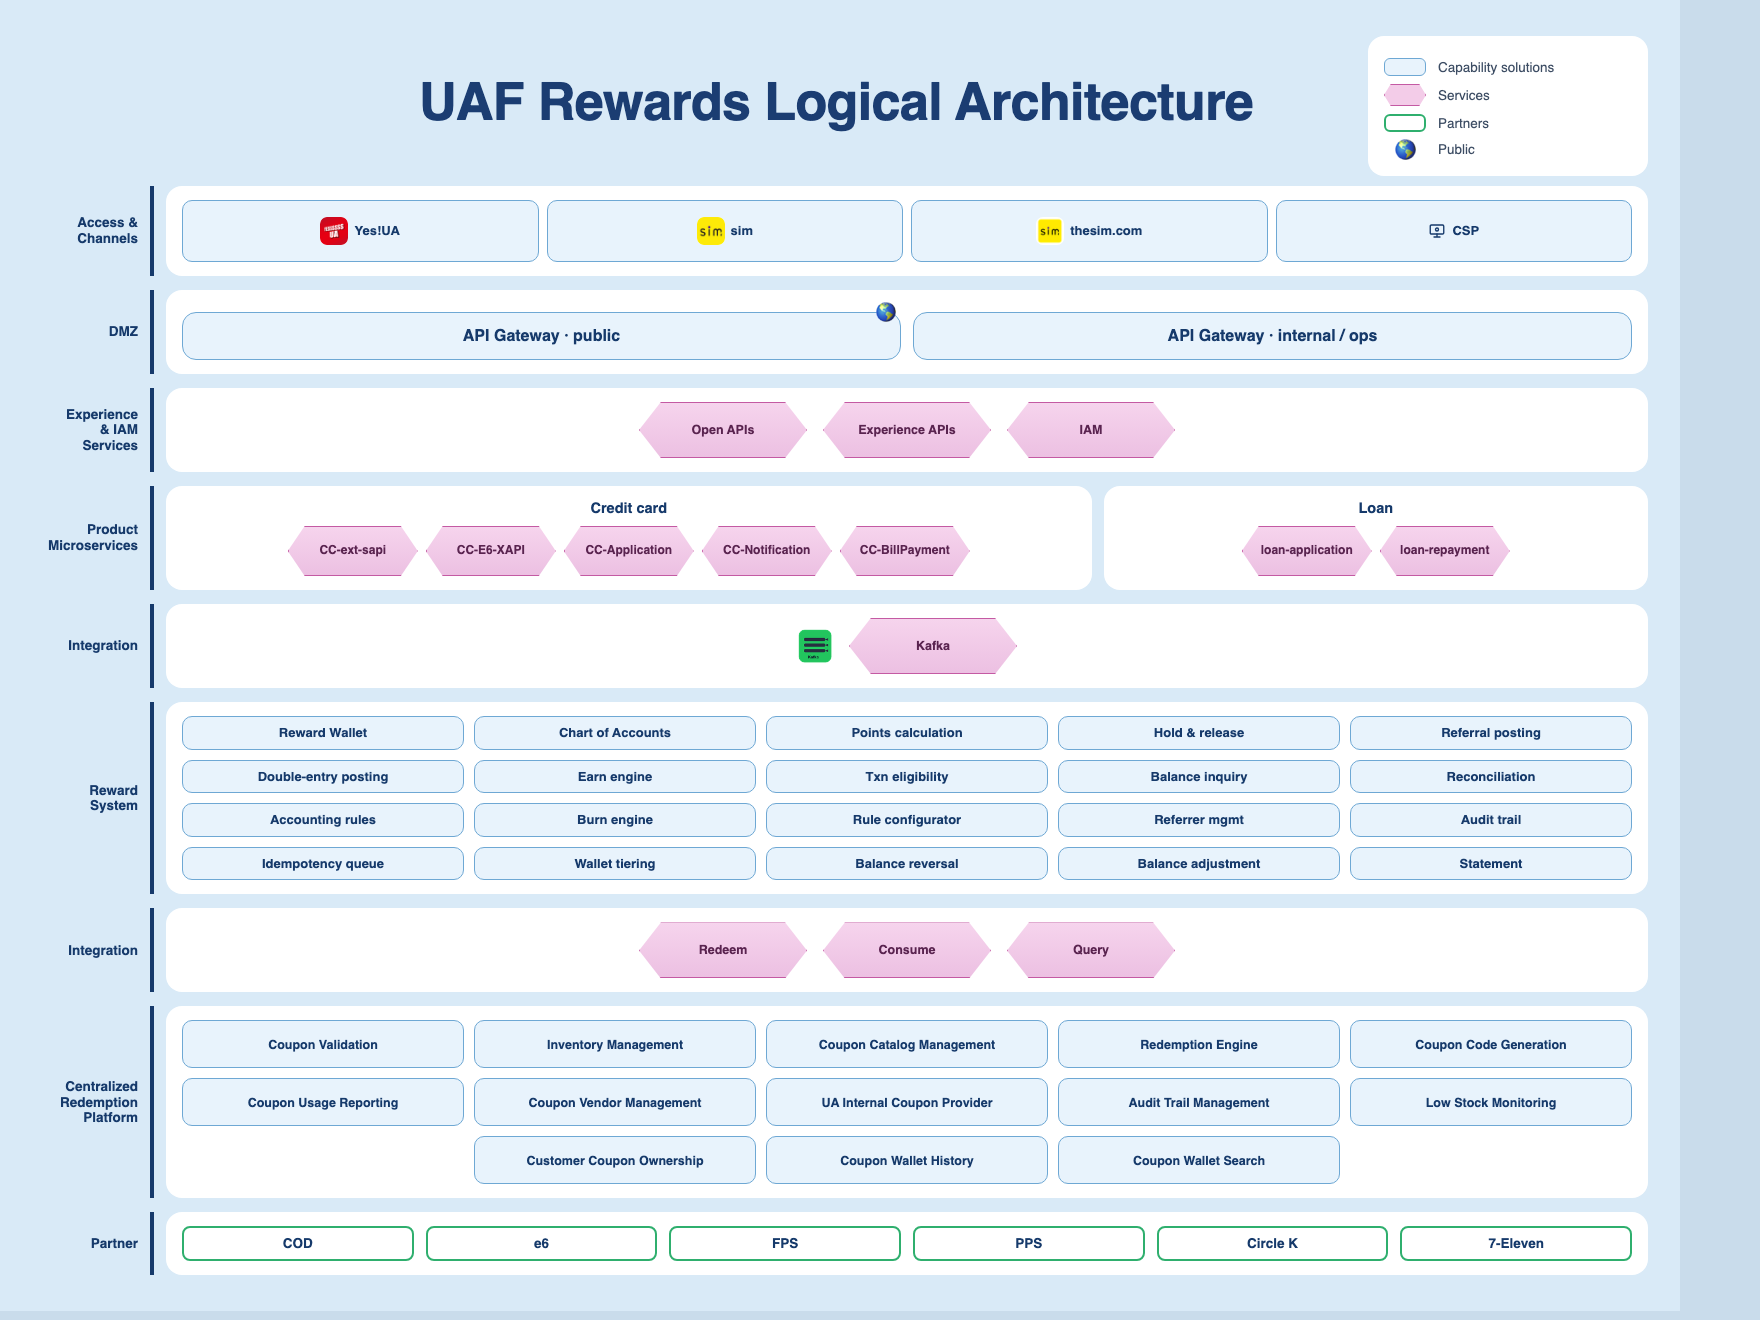
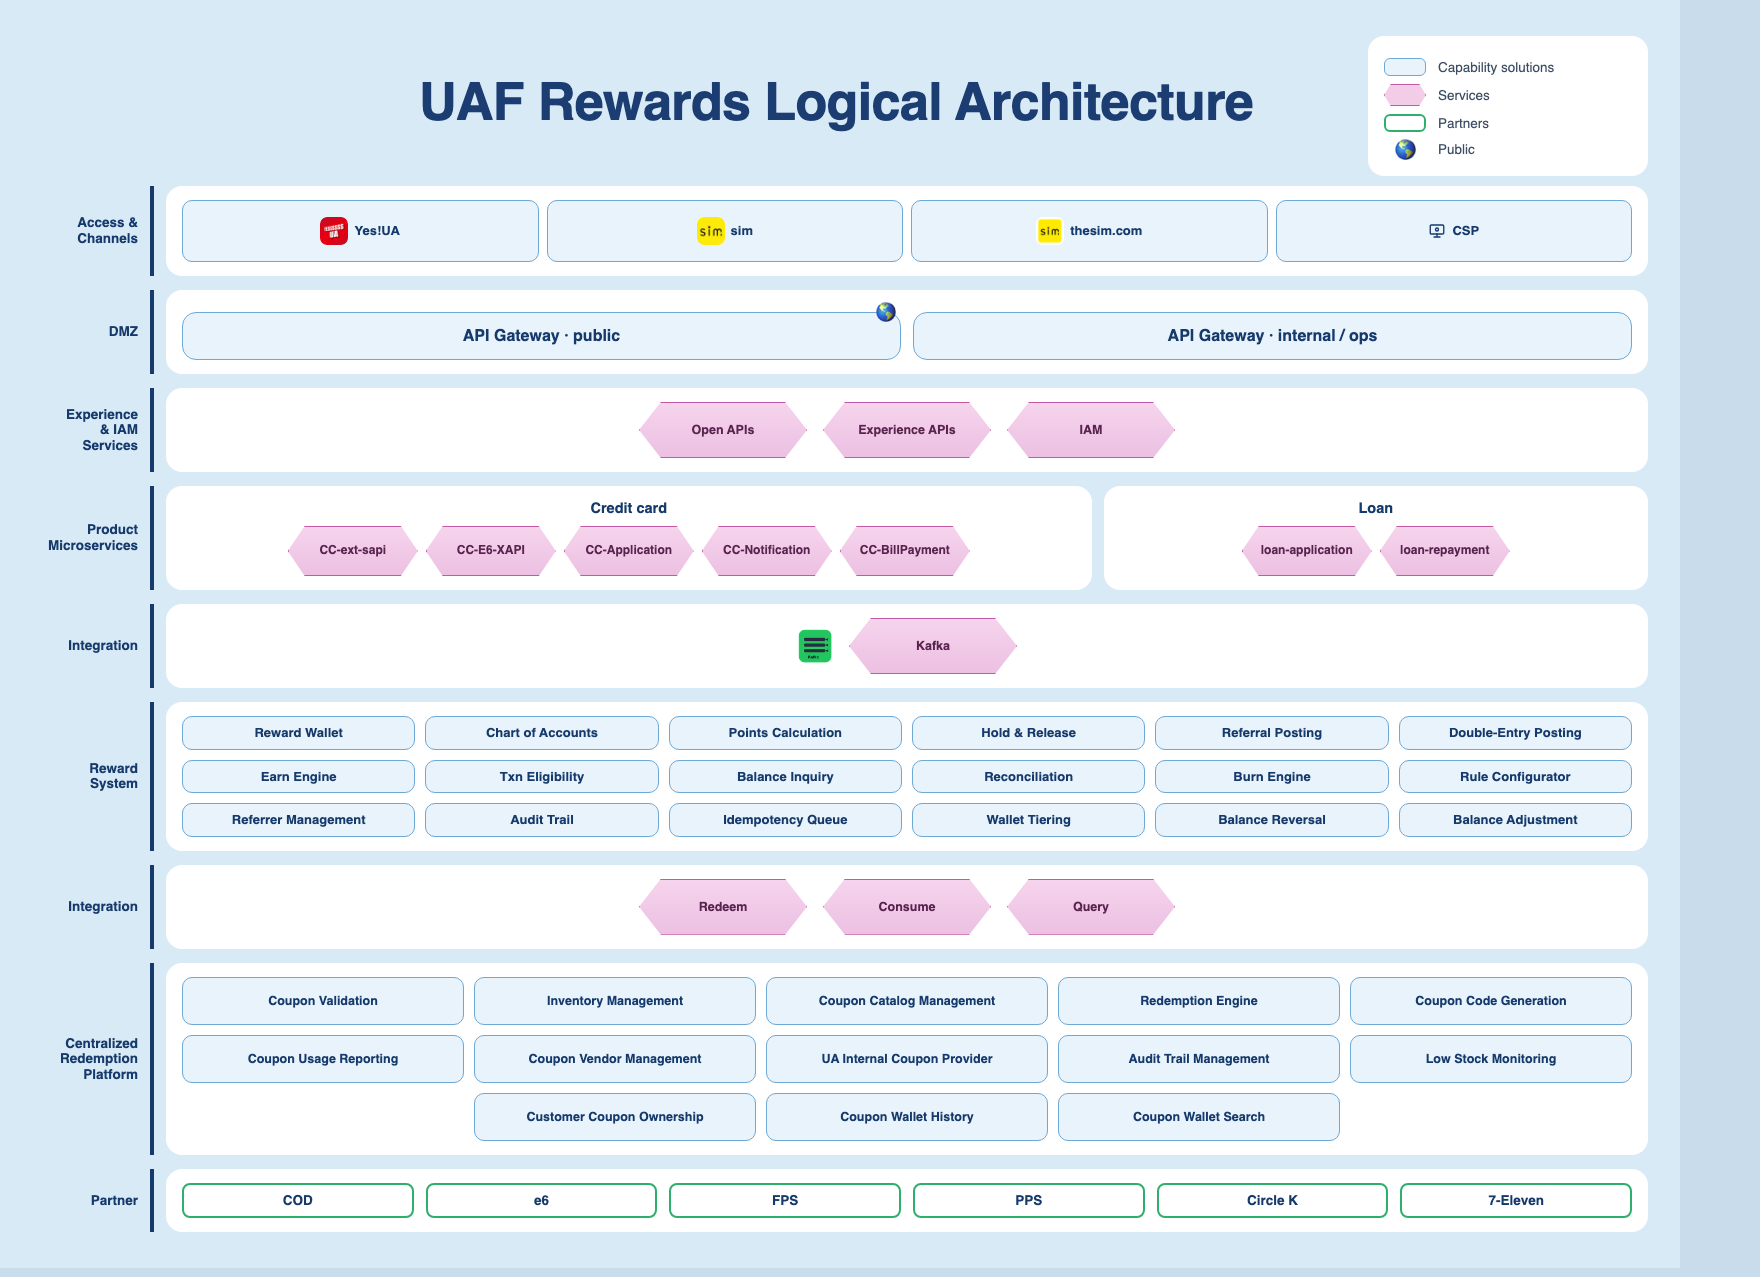
docs(decks): RS wording Title Case; drop Accounting rules and Statement

diff --git a/docs/decks/uaf-rewards-logical-architecture.html b/docs/decks/uaf-rewards-logical-architecture.html
@@ -153,27 +153,25 @@
 
     <div class="lab l6">Reward<br>System</div>
     <div class="card c6">
-      <div class="caps">
+      <div class="caps" style="grid-template-columns:repeat(6,1fr)">
         <div class="cap">Reward Wallet</div>
         <div class="cap">Chart of Accounts</div>
-        <div class="cap">Points calculation</div>
-        <div class="cap">Hold &amp; release</div>
-        <div class="cap">Referral posting</div>
-        <div class="cap">Double-entry posting</div>
-        <div class="cap">Earn engine</div>
-        <div class="cap">Txn eligibility</div>
-        <div class="cap">Balance inquiry</div>
+        <div class="cap">Points Calculation</div>
+        <div class="cap">Hold &amp; Release</div>
+        <div class="cap">Referral Posting</div>
+        <div class="cap">Double-Entry Posting</div>
+        <div class="cap">Earn Engine</div>
+        <div class="cap">Txn Eligibility</div>
+        <div class="cap">Balance Inquiry</div>
         <div class="cap">Reconciliation</div>
-        <div class="cap">Accounting rules</div>
-        <div class="cap">Burn engine</div>
-        <div class="cap">Rule configurator</div>
-        <div class="cap">Referrer mgmt</div>
-        <div class="cap">Audit trail</div>
-        <div class="cap">Idempotency queue</div>
-        <div class="cap">Wallet tiering</div>
-        <div class="cap">Balance reversal</div>
-        <div class="cap">Balance adjustment</div>
-        <div class="cap">Statement</div>
+        <div class="cap">Burn Engine</div>
+        <div class="cap">Rule Configurator</div>
+        <div class="cap">Referrer Management</div>
+        <div class="cap">Audit Trail</div>
+        <div class="cap">Idempotency Queue</div>
+        <div class="cap">Wallet Tiering</div>
+        <div class="cap">Balance Reversal</div>
+        <div class="cap">Balance Adjustment</div>
       </div>
     </div>
 
